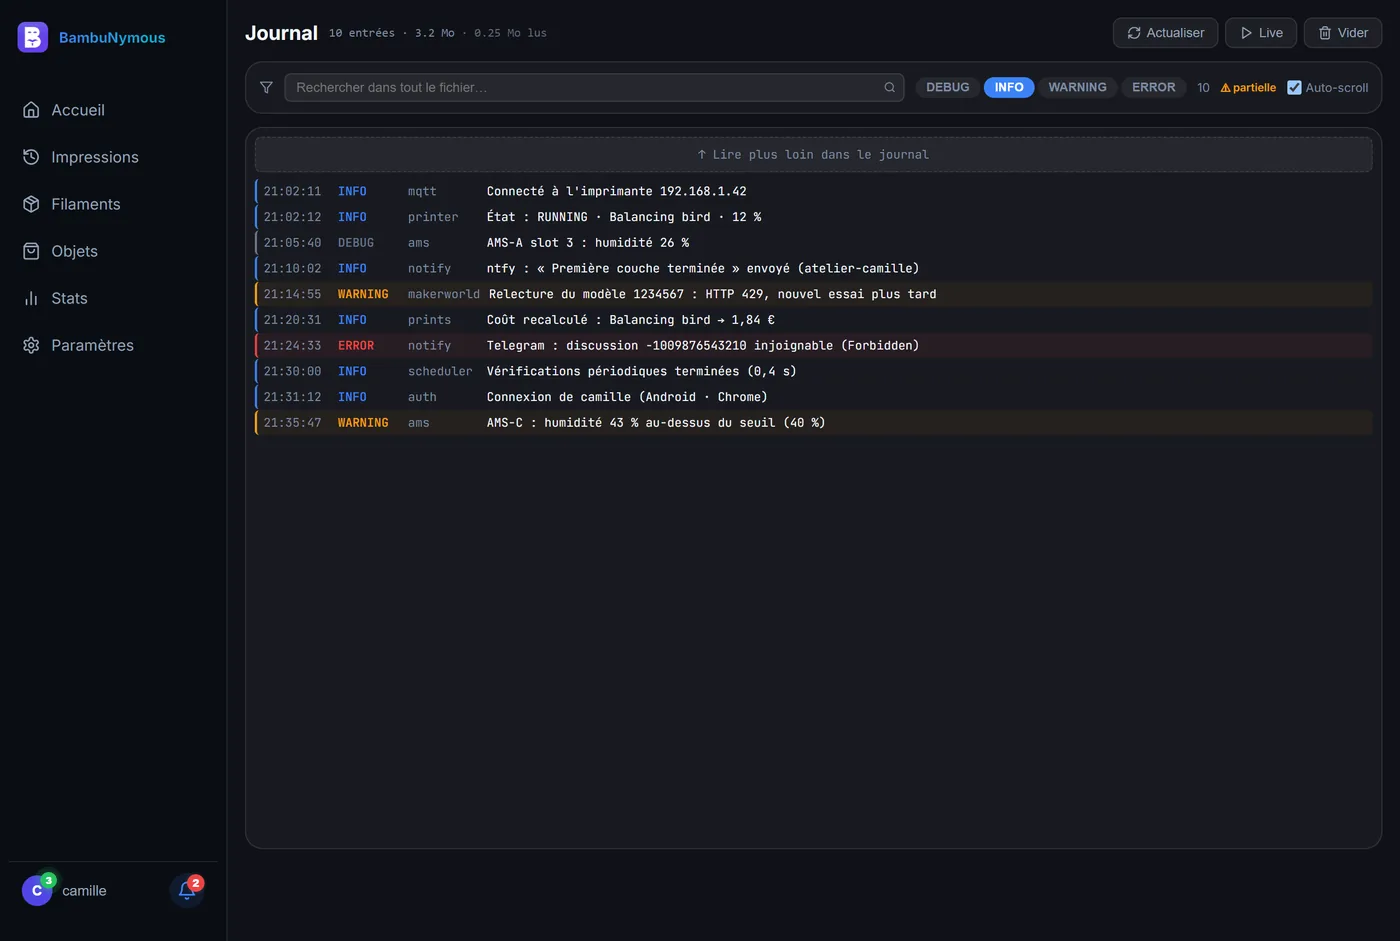
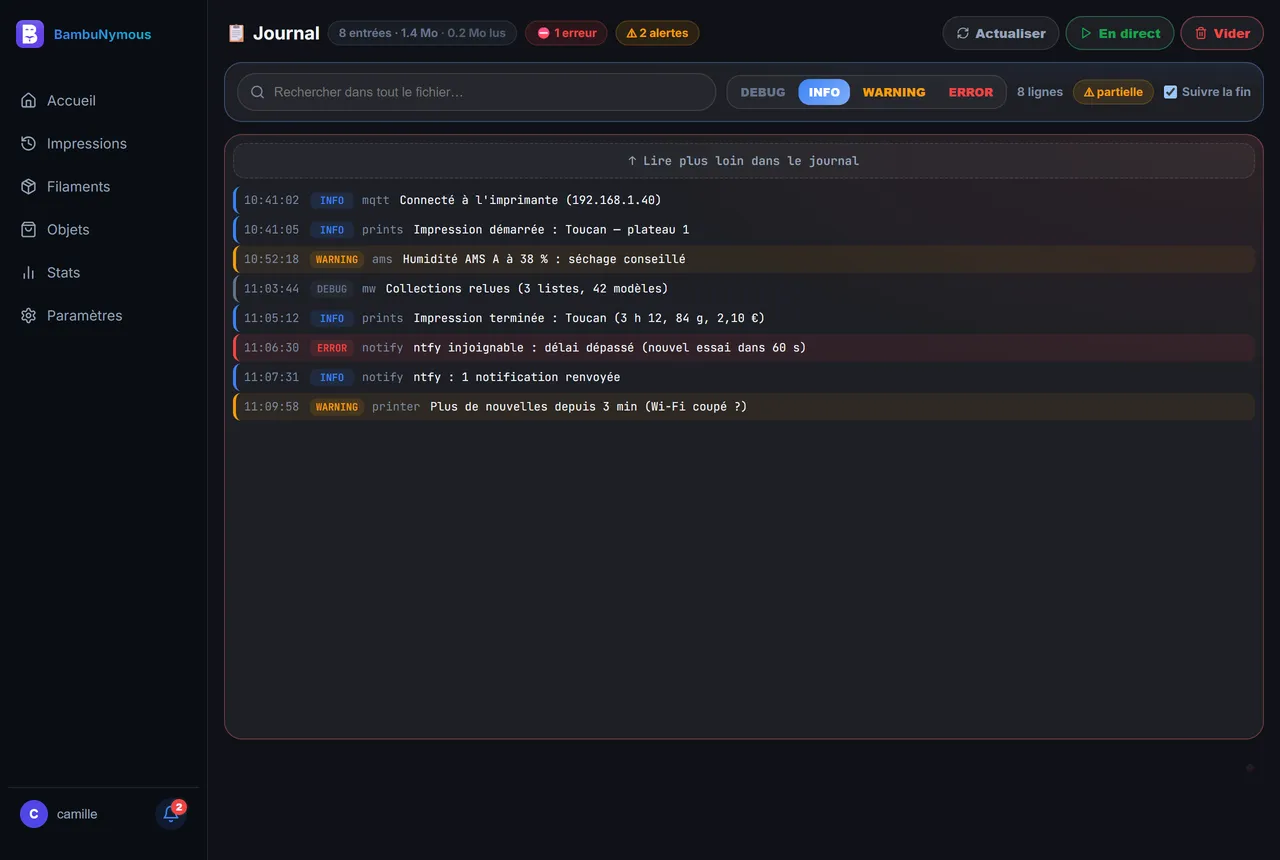
Journal : nouvelle page (pastilles d'état, recherche en pilule, niveaux en pastilles, lignes lisibles sur téléphone)
- en-tête : entrées, taille, erreurs et alertes affichées, voyant En direct
- Vider demande confirmation
- lignes : niveau en pastille, message sous l'heure sur téléphone
- guide et capture mis à jour

Changed region(s): [[0.1562, 0.0, 1.0, 0.4837], [0.7188, 0.3628, 1.0, 0.4233], [0.0312, 0.907, 0.0625, 0.9674]]

diff --git a/frontend/src/pages/Logs.jsx b/frontend/src/pages/Logs.jsx
@@ -1,11 +1,15 @@
 import React, { useState, useEffect, useRef, useCallback } from "react";
 import HiddenMark from "../components/HiddenMark";
-import { RefreshCw, Trash2, Play, Square, Filter, Search } from "lucide-react";
+import { RefreshCw, Trash2, Play, Square, Search } from "lucide-react";
 import client from "../api/client";
+import { showConfirm } from "../utils/dialog";
 
 
 const LEVEL_COLOR = { DEBUG:"#64748b", INFO:"#3b82f6", WARNING:"#f59e0b", ERROR:"#ef4444", CRITICAL:"#dc2626" };
 const LEVELS = ["DEBUG","INFO","WARNING","ERROR"];
+const chipSt = c => ({ fontSize:11.5, fontWeight:800, padding:"3px 10px", borderRadius:20, color:c, background:`${c}1f`, border:`1px solid ${c}33`, whiteSpace:"nowrap" });
+const panel = c => ({ borderRadius:18, border:`1px solid color-mix(in srgb, ${c} 26%, var(--border))`,
+  background:`radial-gradient(90% 60% at 100% 0%, ${c}14, transparent 70%), var(--surface2)` });
 const LEVEL_ORDER = { DEBUG:0, INFO:1, WARNING:2, ERROR:3, CRITICAL:4 };
 
 /** Surligne le terme recherché — sans lui, on relit la ligne à la main. */
@@ -107,109 +111,116 @@ export default function Logs({ embedded = false }) {
     setLogs([]); setStatus("Vidé"); setFileMb(0);
   };
 
-  const Btn = ({ onClick, children, active }) => (
+  // Vider efface le fichier pour de bon : on demande d'abord
+  const askClear = async () => {
+    if (await showConfirm("Vider le journal ? Toutes les lignes du fichier sont effacées.", { confirmLabel: "🗑 Vider", danger: true })) clearLogs();
+  };
+
+  const Btn = ({ onClick, children, active, c = "#3b82f6", tone }) => (
     <button onClick={onClick} style={{
-      display:"flex", alignItems:"center", gap:5, padding:"6px 12px",
-      borderRadius:8, fontSize:12, cursor:"pointer",
-      border:"1px solid var(--border)",
-      background: active ? "#3b82f6" : "var(--surface2)",
-      color: active ? "white" : "var(--text2)",
+      display:"flex", alignItems:"center", gap:6, padding:"7px 13px",
+      borderRadius:20, fontSize:12.5, fontWeight:800, cursor:"pointer",
+      border: active ? "none" : `1px solid ${tone ? `color-mix(in srgb, ${tone} 40%, var(--border))` : "var(--border)"}`,
+      background: active ? `linear-gradient(135deg, ${c}, color-mix(in srgb, ${c} 65%, #ffffff))` : "var(--surface2)",
+      boxShadow: active ? `0 6px 14px -8px ${c}` : "none",
+      color: active ? "white" : (tone || "var(--text2)"),
     }}>{children}</button>
   );
+  const nErr = logs.filter(l => l.level === "ERROR" || l.level === "CRITICAL").length;
+  const nWarn = logs.filter(l => l.level === "WARNING").length;
 
   return (
     <div className="page-wide" style={{ "--page-max":"1000px", gap:12, height:"calc(100dvh - 100px)" }}>
+      <style>{`.log-row { display:flex; gap:4px 10px; flex-wrap:wrap; align-items:baseline; }
+        .log-msg { flex: 1 1 340px; min-width: 0; }`}</style>
 
-      {/* Header */}
+      {/* En-tete : le titre, ce que contient le fichier, les actions */}
       {!embedded && (
-        <div style={{ display:"flex", alignItems:"center", justifyContent:"space-between", flexWrap:"wrap", gap:8 }}>
-          <div style={{ display:"flex", alignItems:"center", gap:10 }}>
-            <h1 className="page-title" style={{ fontSize:18, fontWeight:700, color:"var(--text)" }}>Journal</h1>
-            <span style={{ fontSize:11, color:"var(--muted)", fontFamily:"monospace" }}>
-              {status}{fileMb != null ? ` · ${fileMb} Mo` : ""}
-              {scannedMb != null && scannedMb > 0 && (
-                <span style={{ marginLeft:6, opacity:0.7 }}>· {scannedMb} Mo lus</span>
-              )}
-            </span>
-            {live && <span style={{ display:"flex", alignItems:"center", gap:4, fontSize:11, color:"#22c55e" }}>
-              <span style={{ width:6, height:6, borderRadius:"50%", background:"#22c55e", display:"inline-block", animation:"livePulse 2s infinite" }}/> Live
+        <div style={{ display:"flex", alignItems:"center", justifyContent:"space-between", flexWrap:"wrap", gap:10 }}>
+          <div style={{ display:"flex", alignItems:"center", gap:8, flexWrap:"wrap", minWidth:0 }}>
+            <h1 className="page-title" style={{ fontSize:18, fontWeight:900, color:"var(--text)", margin:0 }}>📋 Journal</h1>
+            <span style={chipSt("#64748b")}>{status}{fileMb != null ? ` · ${fileMb} Mo` : ""}
+              {scannedMb != null && scannedMb > 0 && <span style={{ opacity:0.75 }}> · {scannedMb} Mo lus</span>}</span>
+            {nErr > 0 && <span style={chipSt("#ef4444")}>⛔ {nErr} erreur{nErr > 1 ? "s" : ""}</span>}
+            {nWarn > 0 && <span style={chipSt("#f59e0b")}>⚠ {nWarn} alerte{nWarn > 1 ? "s" : ""}</span>}
+            {live && <span style={{ ...chipSt("#22c55e"), display:"flex", alignItems:"center", gap:5 }}>
+              <span style={{ width:7, height:7, borderRadius:"50%", background:"#22c55e", display:"inline-block", animation:"livePulse 2s infinite" }}/> En direct
             </span>}
           </div>
-          <div style={{ display:"flex", gap:6 }}>
+          <div style={{ display:"flex", gap:6, flexWrap:"wrap" }}>
             <Btn onClick={() => load(filter, minLevel)}><RefreshCw size={13}/> Actualiser</Btn>
-            {live ? <Btn onClick={stopLive} active><Square size={13}/> Stop</Btn>
-                  : <Btn onClick={startLive}><Play size={13}/> Live</Btn>}
-            <Btn onClick={clearLogs}><Trash2 size={13}/> Vider</Btn>
+            {live ? <Btn onClick={stopLive} active c="#22c55e"><Square size={13}/> Arrêter</Btn>
+                  : <Btn onClick={startLive} tone="#16a34a"><Play size={13}/> En direct</Btn>}
+            <Btn onClick={askClear} tone="#ef4444"><Trash2 size={13}/> Vider</Btn>
           </div>
         </div>
       )}
 
-      {/* Filtres */}
-      <div className="card" style={{ padding:"10px 12px", display:"flex", gap:10, alignItems:"center", flexWrap:"wrap" }}>
-        <Filter size={13} style={{ color:"var(--muted)", flexShrink:0 }}/>
-        <div style={{ position:"relative", flex:1, minWidth:120 }}>
+      {/* Filtres : recherche en pilule, niveau minimum en pastilles */}
+      <div style={{ ...panel("#3b82f6"), padding:"10px 12px", display:"flex", gap:10, alignItems:"center", flexWrap:"wrap" }}>
+        <div style={{ position:"relative", flex:"1 1 200px", minWidth:0 }}>
+          <Search size={15} style={{ position:"absolute", left:13, top:"50%", transform:"translateY(-50%)", color:"var(--muted)", pointerEvents:"none" }}/>
           <input value={filter} onChange={e=>setFilter(e.target.value)}
             placeholder="Rechercher dans tout le fichier…"
-            style={{ width:"100%", background:"var(--surface2)", border:"1px solid var(--border)", borderRadius:6,
-              padding:"5px 32px 5px 10px", fontSize:12, color:"var(--text)", outline:"none", boxSizing:"border-box" }}/>
-          <div style={{ position:"absolute", right:8, top:"50%", transform:"translateY(-50%)" }}>
-            {searching
-              ? <RefreshCw size={11} style={{ color:"var(--muted)", animation:"spin 1s linear infinite" }}/>
-              : <Search size={11} style={{ color:"var(--muted)" }}/>}
+            style={{ width:"100%", height:38, background:"var(--surface)", border:"1px solid var(--border)", borderRadius:20,
+              padding:"0 34px 0 36px", fontSize:13, color:"var(--text)", outline:"none", boxSizing:"border-box" }}/>
+          <div style={{ position:"absolute", right:12, top:"50%", transform:"translateY(-50%)", display:"flex" }}>
+            {searching && <RefreshCw size={13} style={{ color:"var(--muted)", animation:"spin 1s linear infinite" }}/>}
           </div>
         </div>
-        <div style={{ display:"flex", gap:3 }}>
-          {LEVELS.map(l => (
-            <button key={l} onClick={()=>setMinLevel(l)} style={{
-              padding:"3px 10px", borderRadius:20, fontSize:11, fontWeight:600, cursor:"pointer", border:"none",
-              background: minLevel===l ? LEVEL_COLOR[l] : "var(--surface2)",
-              color: minLevel===l ? "white" : "var(--muted)",
-            }}>{l}</button>
-          ))}
+        <div style={{ display:"flex", gap:3, padding:3, borderRadius:14, background:"var(--surface)", border:"1px solid var(--border)" }}>
+          {LEVELS.map(l => { const on = minLevel === l, c = LEVEL_COLOR[l];
+            return (
+            <button key={l} onClick={()=>setMinLevel(l)} data-tip={`À partir de ${l}`} style={{
+              padding:"5px 10px", borderRadius:11, fontSize:11.5, fontWeight:800, cursor:"pointer", border:"none",
+              background: on ? `linear-gradient(135deg, ${c}, color-mix(in srgb, ${c} 65%, #ffffff))` : "transparent",
+              color: on ? "white" : c,
+            }}>{l}</button>); })}
         </div>
-        <span style={{ fontSize:11, color:"var(--muted)", flexShrink:0 }}>{logs.length}</span>
+        <span style={{ fontSize:12, fontWeight:800, color:"var(--muted)", flexShrink:0 }}>{logs.length} ligne{logs.length > 1 ? "s" : ""}</span>
         {hasMore && (
-          <span title="La recherche s'est arrêtée avant le début du fichier — utilise « Lire plus loin »."
-            style={{ fontSize:10, color:"#f59e0b", fontWeight:600, flexShrink:0 }}>
+          <span data-tip="La recherche s'est arrêtée avant le début du fichier — utilise « Lire plus loin »."
+            style={{ ...chipSt("#f59e0b"), flexShrink:0 }}>
             ⚠ partielle
           </span>
         )}
-        <label style={{ display:"flex", alignItems:"center", gap:4, fontSize:11, color:"var(--muted)", cursor:"pointer", flexShrink:0 }}>
-          <input type="checkbox" checked={autoScroll} onChange={e=>setAutoScroll(e.target.checked)}/>Auto-scroll
+        <label style={{ display:"flex", alignItems:"center", gap:5, fontSize:12, fontWeight:700, color:"var(--muted)", cursor:"pointer", flexShrink:0 }}>
+          <input type="checkbox" checked={autoScroll} onChange={e=>setAutoScroll(e.target.checked)}/>Suivre la fin
         </label>
       </div>
 
-      {/* Logs */}
-      <div className="card" style={{ flex:1, overflowY:"auto", padding:8, fontFamily:"JetBrains Mono, monospace", fontSize:11 }}>
+      {/* Les lignes */}
+      <div style={{ ...panel(nErr ? "#ef4444" : "#64748b"), flex:1, overflowY:"auto", padding:8, fontFamily:"JetBrains Mono, monospace", fontSize:11.5 }}>
         {hasMore && (
           <button onClick={loadMore} disabled={loadingMore}
-            style={{ width:"100%", padding:"8px", marginBottom:6, borderRadius:6,
-              border:"1px dashed var(--border)", background:"var(--surface2)",
-              color:"var(--muted)", cursor: loadingMore ? "default" : "pointer",
-              fontSize:11, fontFamily:"inherit" }}>
+            style={{ width:"100%", padding:"9px", marginBottom:8, borderRadius:12,
+              border:"1px dashed var(--border)", background:"var(--surface)",
+              color:"var(--text2)", fontWeight:800, cursor: loadingMore ? "default" : "pointer",
+              fontSize:12, fontFamily:"inherit" }}>
             {loadingMore ? "Lecture…" : "↑ Lire plus loin dans le journal"}
           </button>
         )}
         {logs.length === 0
-          ? <p style={{ textAlign:"center", color:"var(--muted)", padding:"48px 0", fontSize:13 }}>
-              {searching ? "Recherche…" : "Aucun log"}
+          ? <p style={{ textAlign:"center", color:"var(--muted)", padding:"48px 0", fontSize:13, fontFamily:"inherit" }}>
+              {searching ? "Recherche…" : "📭 Aucune ligne"}
             </p>
-          : logs.map((l, i) => (
-            <div key={i} style={{
-              display:"flex", gap:8, padding:"3px 6px", borderRadius:4, alignItems:"baseline",
-              background: l.level==="ERROR"||l.level==="CRITICAL" ? "rgba(239,68,68,0.07)"
-                        : l.level==="WARNING" ? "rgba(245,158,11,0.06)" : "transparent",
-              borderLeft: `2px solid ${LEVEL_COLOR[l.level]||"transparent"}`,
-              marginBottom:1,
+          : logs.map((l, i) => { const c = LEVEL_COLOR[l.level] || "#94a3b8";
+            return (
+            <div key={i} className="log-row" style={{
+              padding:"5px 8px", borderRadius:8, marginBottom:2,
+              background: l.level==="ERROR"||l.level==="CRITICAL" ? "rgba(239,68,68,0.09)"
+                        : l.level==="WARNING" ? "rgba(245,158,11,0.08)" : "transparent",
+              borderLeft: `3px solid ${c}`,
             }}>
-              <span style={{ color:"var(--muted)", flexShrink:0, minWidth:60 }}>{l.ts}</span>
-              <span style={{ color:LEVEL_COLOR[l.level]||"var(--text2)", fontWeight:700, flexShrink:0, minWidth:56 }}>{l.level}</span>
-              <span style={{ color:"var(--muted)", flexShrink:0, minWidth:64, overflow:"hidden", textOverflow:"ellipsis", whiteSpace:"nowrap" }}>{l.name}</span>
-              <span style={{ color:"var(--text)", flex:1, wordBreak:"break-word", lineHeight:1.5 }}>
+              <span style={{ display:"flex", gap:8, alignItems:"baseline", flexShrink:0 }}>
+                <span style={{ color:"var(--muted)", minWidth:58 }}>{l.ts}</span>
+                <span style={{ color:c, fontWeight:900, fontSize:10, padding:"1px 6px", borderRadius:6, background:`${c}1f`, minWidth:44, textAlign:"center" }}>{l.level}</span>
+                <span style={{ color:"var(--muted)", maxWidth:110, overflow:"hidden", textOverflow:"ellipsis", whiteSpace:"nowrap" }}>{l.name}</span>
+              </span>
+              <span className="log-msg" style={{ color:"var(--text)", wordBreak:"break-word", lineHeight:1.5 }}>
                 <Highlight text={l.msg} q={filter}/>
               </span>
-            </div>
-          ))
+            </div>); })
         }
         <div ref={bottomRef}/>
       </div>

diff --git a/backend/guide/pages/parametres.html b/backend/guide/pages/parametres.html
@@ -329,15 +329,15 @@
   <p>Le bouton <span class="ui">📋 Journal</span> des Paramètres ouvre le journal technique du serveur : utile pour comprendre un problème (imprimante injoignable, notification qui ne part pas…).</p>
   <figure><img src="img/parametres-journal.webp" alt="Page Journal avec la barre de filtres et des lignes INFO, WARNING, ERROR"><figcaption>Le journal du serveur.</figcaption></figure>
   <dl class="opts">
-    <dt>En-tête</dt><dd>Le nombre d'entrées affichées, la taille du fichier et ce qui a été lu ; un voyant vert « Live » quand le direct est actif.</dd>
+    <dt>En-tête</dt><dd>En pastilles : le nombre d'entrées, la taille du fichier et ce qui a été lu ; « ⛔ N erreurs » et « ⚠ N alertes » parmi les lignes affichées ; un voyant vert « En direct » quand le direct est actif.</dd>
     <dt>Actualiser</dt><dd>Relit le journal.</dd>
-    <dt>Live / Stop</dt><dd>Relit le journal toutes les 3 secondes, jusqu'à <span class="ui">Stop</span>.</dd>
-    <dt>Vider</dt><dd>Vide le fichier <b>immédiatement, sans confirmation</b>.</dd>
+    <dt>En direct / Arrêter</dt><dd>Relit le journal toutes les 3 secondes, jusqu'à <span class="ui">Arrêter</span>.</dd>
+    <dt>Vider</dt><dd>Vide le fichier, après confirmation (« Vider le journal ? »).</dd>
     <dt>Rechercher dans tout le fichier…</dt><dd>Cherche dans les messages et les noms de module (majuscules indifférentes), en remontant le fichier. Le terme trouvé est surligné en orange.</dd>
     <dt>DEBUG, INFO, WARNING, ERROR</dt><dd>Le niveau minimum affiché (INFO par défaut).</dd>
     <dt>⚠ partielle</dt><dd>La recherche s'est arrêtée avant le début du fichier : utilise <span class="ui">↑ Lire plus loin dans le journal</span>.</dd>
-    <dt>Auto-scroll</dt><dd>Coché par défaut : la vue reste en bas, sur les dernières lignes.</dd>
+    <dt>Suivre la fin</dt><dd>Coché par défaut : la vue reste en bas, sur les dernières lignes.</dd>
   </dl>
-  <p>Chaque ligne : heure, niveau en couleur (DEBUG gris, INFO bleu, WARNING orange, ERROR rouge), module et message. Les avertissements ont un fond orange pâle, les erreurs un fond rouge pâle. La page charge les 500 dernières entrées ; <span class="ui">↑ Lire plus loin dans le journal</span> remonte plus loin.</p>
+  <p>Chaque ligne : heure, niveau en pastille de couleur (DEBUG gris, INFO bleu, WARNING orange, ERROR rouge), module et message (sur téléphone, le message passe sous l'heure). Les avertissements ont un fond orange pâle, les erreurs un fond rouge pâle. La page charge les 500 dernières entrées ; <span class="ui">↑ Lire plus loin dans le journal</span> remonte plus loin.</p>
   <div class="note"><p>Le fichier se purge tout seul : au-delà de 40 Mo, il est ramené à ses 10 derniers Mo (vérifié chaque heure).</p></div>
 </section>
